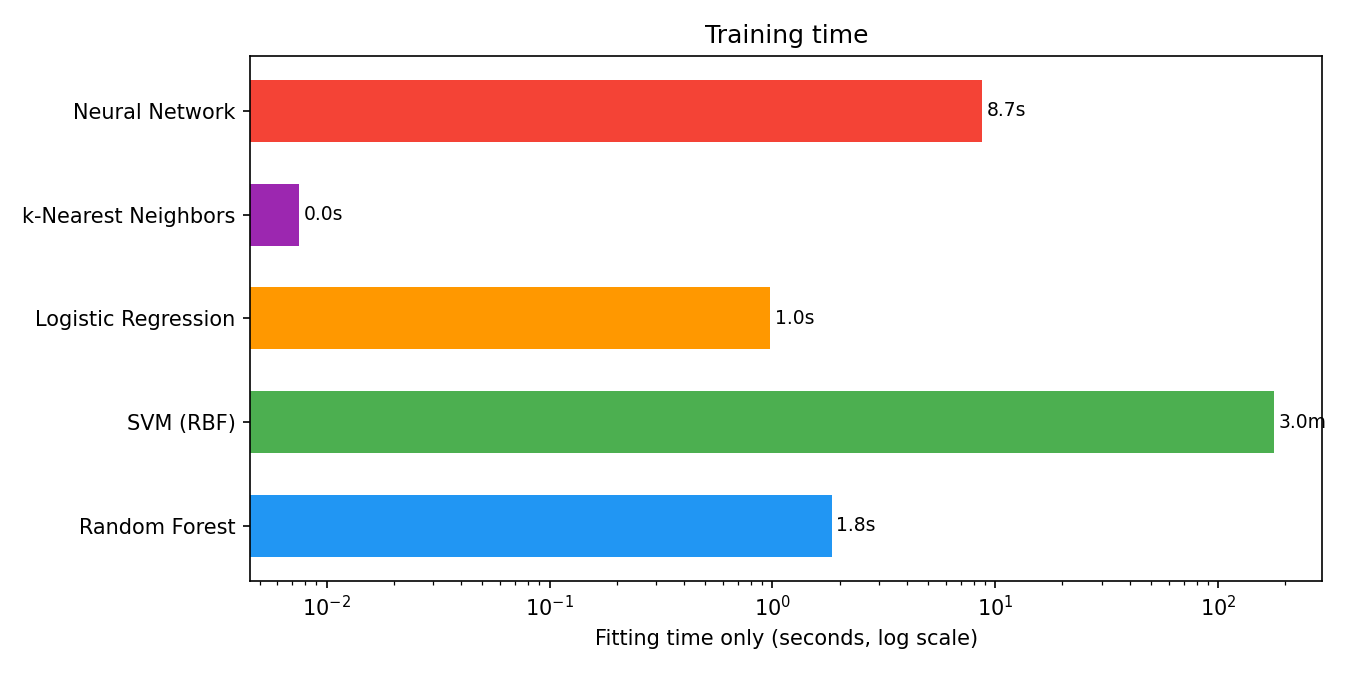
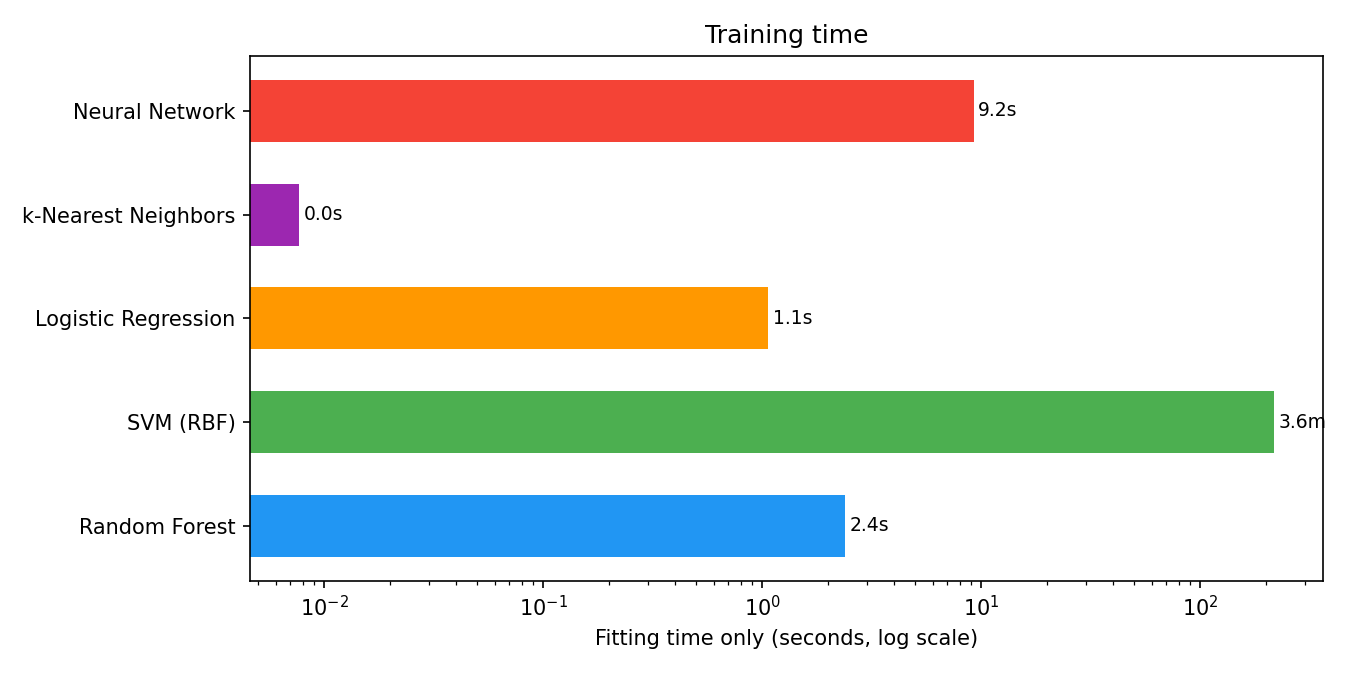
Keep six decimals in the summary; tables generated from it
The summary rounded to four places, which put the forest's false alarms at
the 1% threshold at 10.0% where they are 9.94%. README and report tables are
now taken from the summary of the run in results.txt, and the report's
discussion matches it (the network, not the SVM, catches the most attacks at
its default threshold).

diff --git a/src/evaluation.py b/src/evaluation.py
@@ -36,7 +36,7 @@ def rel(path):
 def build_summary_table(rows):
     df = pd.DataFrame([{**{"model": r["model_name"], "rule": r["rule"],
                            "threshold": None if r["threshold"] is None else round(float(r["threshold"]), 4)},
-                        **{c: round(float(r[c]), 4) for c in COLUMNS}} for r in rows]).set_index(["model", "rule"])
+                        **{c: round(float(r[c]), 6) for c in COLUMNS}} for r in rows]).set_index(["model", "rule"])
     os.makedirs(METRICS_DIR, exist_ok=True)
     path = os.path.join(METRICS_DIR, "summary.csv")
     df.to_csv(path)

diff --git a/report/report.md b/report/report.md
@@ -89,15 +89,15 @@ of the validation slice's normal connections.
 | Model | Threshold | Attacks caught | seen types | new types | False alarms | Accuracy | ROC AUC |
 |---|---|---|---|---|---|---|---|
 | Random Forest | default | 60.5% | 76.8% | 21.1% | 2.7% | 76.4% | **0.962** |
-| | 1% budget (0.077) | **90.0%** | **91.0%** | **87.5%** | 9.9% | **90.0%** | |
+|  | 1% budget (0.077) | **90.0%** | **91.0%** | **87.5%** | 9.9% | **90.0%** |  |
 | SVM (RBF) | default | 68.0% | 77.2% | 45.6% | 7.2% | 78.7% | 0.903 |
-| | 1% budget | 68.5% | 77.4% | 47.1% | 7.3% | 78.9% | |
+|  | 1% budget | 68.5% | 77.4% | 47.1% | 7.3% | 78.9% |  |
 | Logistic Regression | default | 62.6% | 71.3% | 41.5% | 7.4% | 75.5% | 0.781 |
-| | 1% budget (0.75) | 60.5% | 69.8% | 38.0% | 7.0% | 74.5% | |
-| k-Nearest Neighbors | default | 65.0% | 73.9% | 43.2% | 7.2% | 77.0% | 0.820 |
-| | 1% budget (0.2) | 71.9% | 79.3% | 54.0% | 7.6% | 80.7% | |
+|  | 1% budget (0.75) | 60.5% | 69.8% | 38.0% | 7.0% | 74.5% |  |
+| k-Nearest Neighbors | default | 65.0% | 73.9% | 43.2% | 7.2% | 76.9% | 0.820 |
+|  | 1% budget (0.2) | 71.9% | 79.3% | 53.9% | 7.6% | 80.7% |  |
 | Neural Network | default | 69.3% | 76.4% | 52.2% | 6.7% | 79.7% | 0.900 |
-| | 1% budget (0.39) | 70.3% | 77.1% | 53.7% | 7.0% | 80.0% | |
+|  | 1% budget (0.39) | 70.3% | 77.1% | 53.7% | 7.0% | 80.0% |  |
 
 ### Why every model lands near 77%
 
@@ -123,17 +123,18 @@ false alarms is acceptable depends on how many alerts can be read; at 0.5 the fo
 
 | Model | Fit | Score the test file |
 |---|---|---|
-| Random Forest | 1.8 s | 0.06 s |
-| SVM (RBF) | 177 s | 24 s |
-| Logistic Regression | 1.0 s | 0.007 s |
-| k-Nearest Neighbors | 0.01 s | 7.2 s |
-| Neural Network | 8.7 s | 0.02 s |
+| Random Forest | 2.4 s | 0.07 s |
+| SVM (RBF) | 217 s | 20.2 s |
+| Logistic Regression | 1.1 s | 0.009 s |
+| k-Nearest Neighbors | 0.008 s | 7.4 s |
+| Neural Network | 9.2 s | 0.02 s |
 
 The first version reported 1,056 s for the SVM. Most of that was `probability=True`, which fits the
 SVM five more times to calibrate probabilities (808 s for the fit with it, 108 s without, measured on
 their own), plus scoring the test file, which the timer included. The calibration changed no
 prediction and no AUC, so it is gone. k-NN's cost is all at test time: it compares each connection
-with every training row.
+with every training row. Times vary with the machine's load: across three runs of this pipeline the
+SVM's fit took 177 to 219 s.
 
 ### Discussion
 
@@ -141,16 +142,17 @@ with every training row.
 and its threshold can be set from the training side to trade false alarms for detection; at a 1%
 validation budget it catches 90% of attacks, including 87.5% of types it has never seen.
 
-**SVM** catches the most attacks at its default threshold (68.0%) but costs the most time and gains
-nothing at the budgeted threshold.
+**SVM** catches 68.0% of attacks at its default threshold, second to the network, but costs by far
+the most time and gains little at the budgeted threshold.
 
 **Logistic Regression** is the fastest and the weakest at the test file, but not because it is
 linear: inside the training file it is 97.4% accurate.
 
-**k-NN** improves to 71.9% at its budgeted threshold, but it scores the test file slowest.
+**k-NN** improves to 71.9% at its budgeted threshold, but every prediction compares a connection with
+every training row, so it is slow to score (7.4 s for the test file, against 0.07 s for the forest).
 
-**Neural Network** is competitive (69.3% caught at 0.5, AUC 0.900) with no tuning beyond early
-stopping.
+**Neural Network** catches the most attacks at its default threshold (69.3%, AUC 0.900) with no
+tuning beyond early stopping.
 
 ## 6. Conclusion & Future Work
 

diff --git a/README.md b/README.md
@@ -16,15 +16,15 @@ of its normal connections. Both are reported. From `results/metrics/summary.csv`
 | Model | Threshold | Attacks caught | seen types | new types | False alarms | Accuracy |
 |---|---|---|---|---|---|---|
 | Random Forest | default (0.5) | 60.5% | 76.8% | 21.1% | 2.7% | 76.4% |
-| | 1% budget (0.077) | **90.0%** | 91.0% | **87.5%** | 9.9% | **90.0%** |
+|  | 1% budget (0.077) | **90.0%** | 91.0% | **87.5%** | 9.9% | **90.0%** |
 | SVM (RBF) | default (margin 0) | 68.0% | 77.2% | 45.6% | 7.2% | 78.7% |
-| | 1% budget | 68.5% | 77.4% | 47.1% | 7.3% | 78.9% |
+|  | 1% budget | 68.5% | 77.4% | 47.1% | 7.3% | 78.9% |
 | Logistic Regression | default (0.5) | 62.6% | 71.3% | 41.5% | 7.4% | 75.5% |
-| | 1% budget (0.75) | 60.5% | 69.8% | 38.0% | 7.0% | 74.5% |
-| k-Nearest Neighbors | default (0.5) | 65.0% | 73.9% | 43.2% | 7.2% | 77.0% |
-| | 1% budget (0.2) | 71.9% | 79.3% | 54.0% | 7.6% | 80.7% |
+|  | 1% budget (0.75) | 60.5% | 69.8% | 38.0% | 7.0% | 74.5% |
+| k-Nearest Neighbors | default (0.5) | 65.0% | 73.9% | 43.2% | 7.2% | 76.9% |
+|  | 1% budget (0.2) | 71.9% | 79.3% | 53.9% | 7.6% | 80.7% |
 | Neural Network | default (0.5) | 69.3% | 76.4% | 52.2% | 6.7% | 79.7% |
-| | 1% budget (0.39) | 70.3% | 77.1% | 53.7% | 7.0% | 80.0% |
+|  | 1% budget (0.39) | 70.3% | 77.1% | 53.7% | 7.0% | 80.0% |
 
 *Attacks caught* is the share of attack connections flagged; *false alarms* the share of normal
 connections flagged. *New types* are the 17 attack types (3,750 of the test file's 12,833 attacks)
